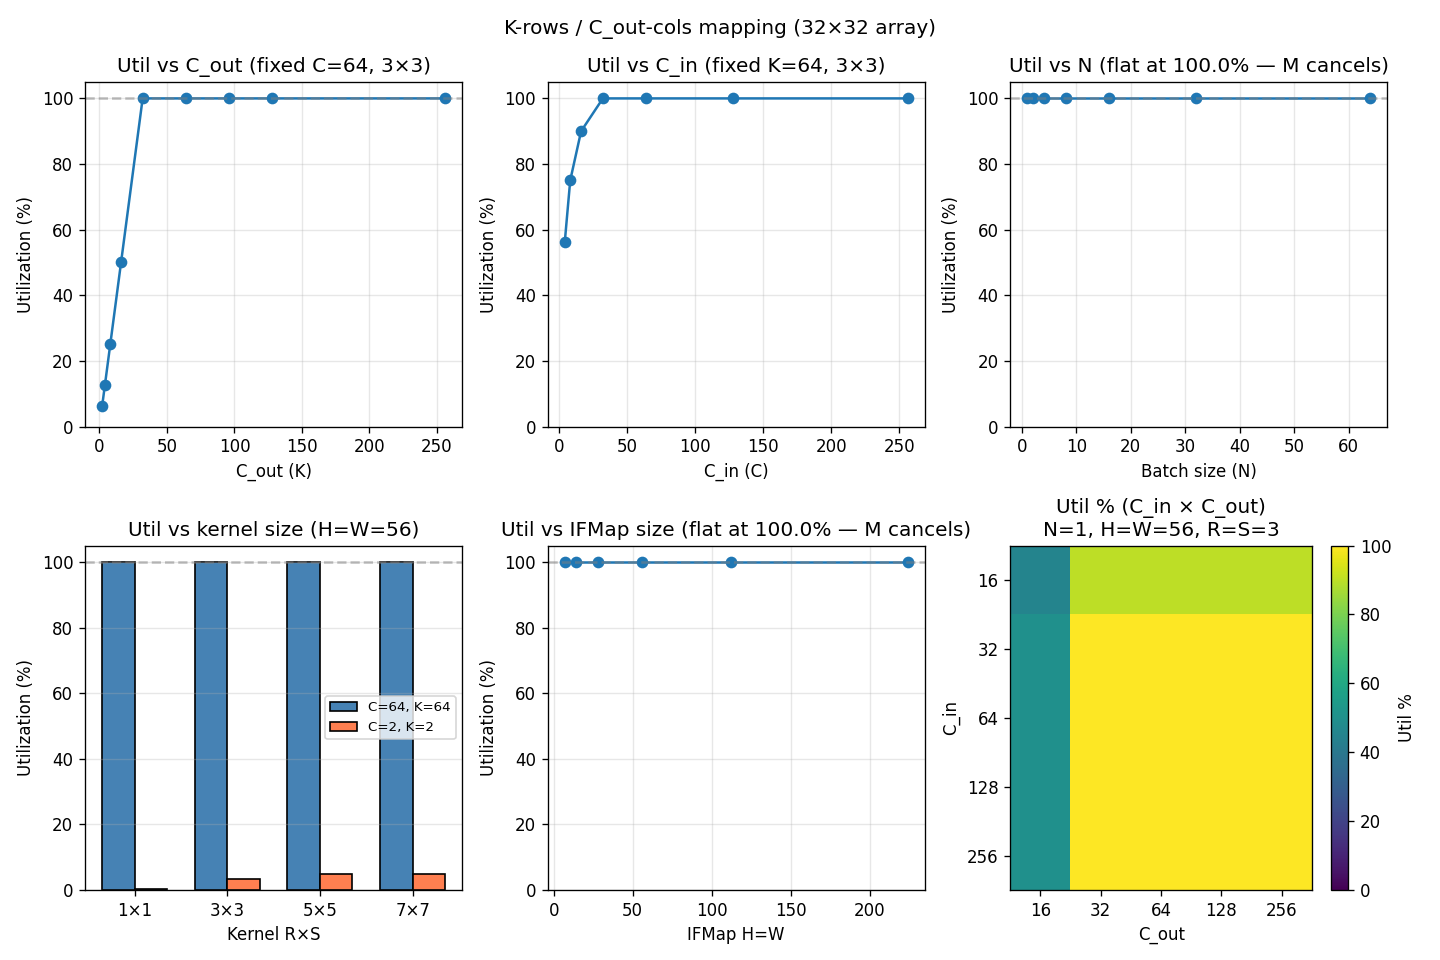
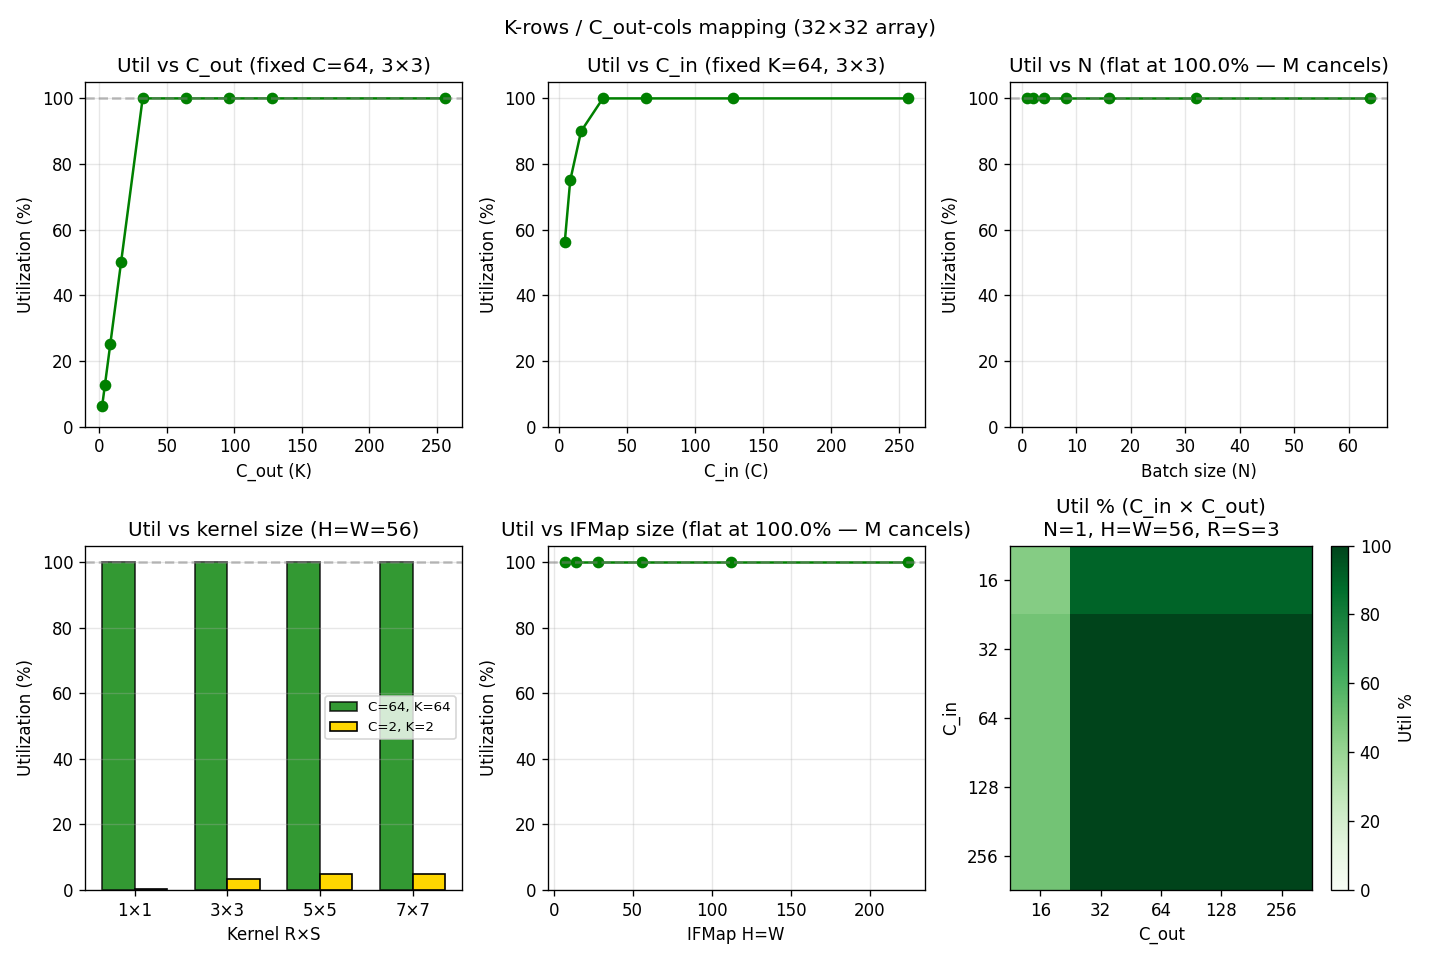
updated sweeps

diff --git a/sweep_utilization.py b/sweep_utilization.py
@@ -76,7 +76,7 @@ def main():
     # Util vs C_out
     ax = axes[0, 0]
     x, u = sweep_cout()
-    ax.plot(x, [v * 100 for v in u], "o-")
+    ax.plot(x, [v * 100 for v in u], "o-", color="green")
     ax.set_xlabel("C_out (K)")
     ax.set_ylabel("Utilization (%)")
     ax.set_title("Util vs C_out (fixed C=64, 3×3)")
@@ -87,7 +87,7 @@ def main():
     # Util vs C_in
     ax = axes[0, 1]
     x, u = sweep_cin()
-    ax.plot(x, [v * 100 for v in u], "o-")
+    ax.plot(x, [v * 100 for v in u], "o-", color="green")
     ax.set_xlabel("C_in (C)")
     ax.set_ylabel("Utilization (%)")
     ax.set_title("Util vs C_in (fixed K=64, 3×3)")
@@ -98,7 +98,7 @@ def main():
     ax = axes[0, 2]
     x, u = sweep_n()
     util_n = u[0] * 100
-    ax.plot(x, [v * 100 for v in u], "o-")
+    ax.plot(x, [v * 100 for v in u], "o-", color="green")
     ax.set_xlabel("Batch size (N)")
     ax.set_ylabel("Utilization (%)")
     ax.set_title(f"Util vs N (flat at {util_n:.1f}% — M cancels)")
@@ -111,8 +111,8 @@ def main():
     labels, u64, u2 = sweep_kernel_size_two_configs()
     x = np.arange(len(labels))
     w = 0.35
-    ax.bar(x - w / 2, u64, w, label="C=64, K=64", color="steelblue", edgecolor="black")
-    ax.bar(x + w / 2, u2, w, label="C=2, K=2", color="coral", edgecolor="black")
+    ax.bar(x - w / 2, u64, w, label="C=64, K=64", color="green", alpha=0.8, edgecolor="black")
+    ax.bar(x + w / 2, u2, w, label="C=2, K=2", color="gold", edgecolor="black")
     ax.set_xticks(x)
     ax.set_xticklabels(labels)
     ax.set_xlabel("Kernel R×S")
@@ -127,7 +127,7 @@ def main():
     ax = axes[1, 1]
     x, u = sweep_ifmap_size()
     util_hw = u[0] * 100
-    ax.plot(x, [v * 100 for v in u], "o-")
+    ax.plot(x, [v * 100 for v in u], "o-", color="green")
     ax.set_xlabel("IFMap H=W")
     ax.set_ylabel("Utilization (%)")
     ax.set_title(f"Util vs IFMap size (flat at {util_hw:.1f}% — M cancels)")
@@ -145,7 +145,7 @@ def main():
             cfg = SimConfig(N=1, H=56, W=56, C=c, K=k, R=3, S=3, stride=1, pad=0)
             u, _, _ = utilization_k_rows_n_cols(cfg)
             grid[i, j] = u * 100
-    im = ax.imshow(grid, cmap="viridis", vmin=0, vmax=100, aspect="auto")
+    im = ax.imshow(grid, cmap="Greens", vmin=0, vmax=100, aspect="auto")
     ax.set_xticks(range(len(c_out_vals)))
     ax.set_yticks(range(len(c_in_vals)))
     ax.set_xticklabels(c_out_vals)
